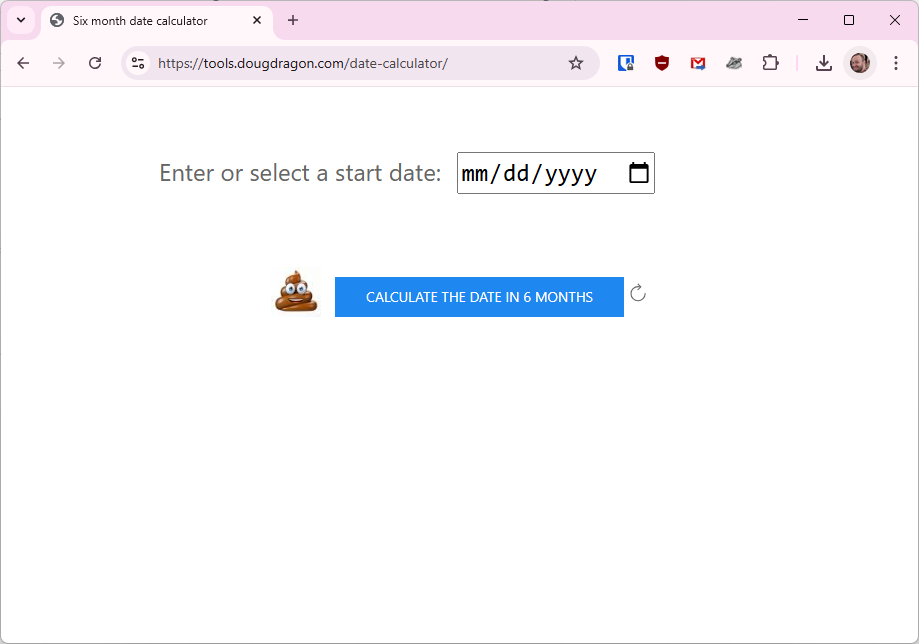
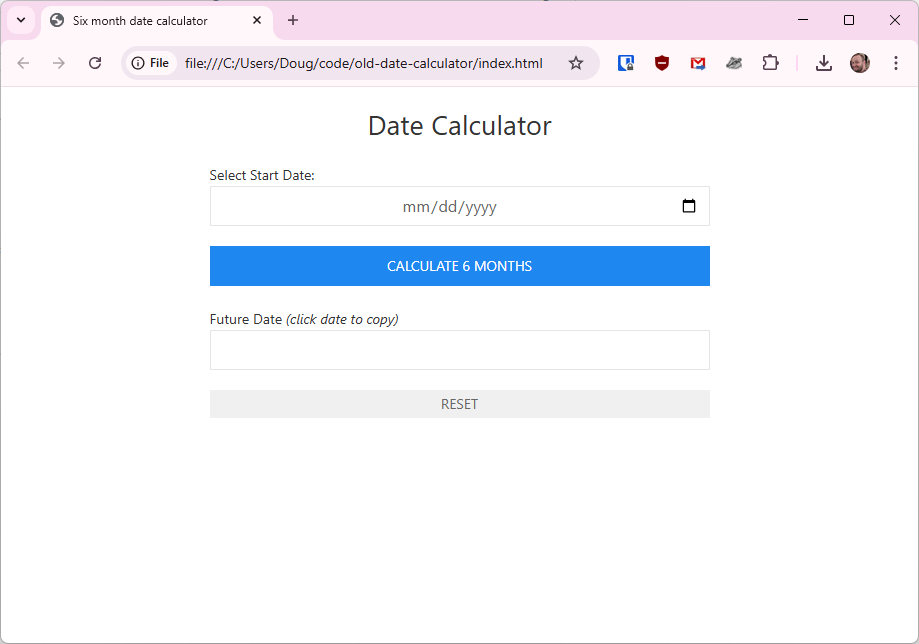
Update page, add responsive styling, updated preview image

diff --git a/index.html b/index.html
@@ -1,88 +1,93 @@
 <!DOCTYPE html>
-<html>
+<html lang='en'>
 <head>
+    <meta charset='UTF-8'>
+    <meta name='viewport' content='width=device-width, initial-scale=1.0'>
     <title>Six month date calculator</title>
-    <meta charset="UTF-8" />
-    <link rel="stylesheet" href="https://cdn.jsdelivr.net/npm/uikit@3.21.9/dist/css/uikit.min.css" />
-    <script src="https://cdn.jsdelivr.net/npm/uikit@3.21.9/dist/js/uikit.min.js"></script>
-    <script src="https://cdn.jsdelivr.net/npm/uikit@3.21.9/dist/js/uikit-icons.min.js"></script>
+    <link rel='stylesheet' href='https://cdn.jsdelivr.net/npm/uikit@3.16.5/dist/css/uikit.min.css' />
+    <script src='https://cdn.jsdelivr.net/npm/uikit@3.16.5/dist/js/uikit.min.js'></script>
+    <script src='https://cdn.jsdelivr.net/npm/uikit@3.16.5/dist/js/uikit-icons.min.js'></script>
+    <style>
+        body {
+            margin: 20px;
+        }
+        .container {
+            max-width: 500px;
+            margin: 0 auto;
+        }
+    </style>
 </head>
 <body>
-    <div class="uk-position-top uk-text-xlarge uk-text-center uk-margin-large-top">
-        <label
-            for="startDate"
-            class="uk-margin-small-right uk-text-large"
-        >
-            Enter or select a start date:
-        </label>
-        <input
-            type="date"
-            id="startDate"
-            class="uk-text-large"
-        >
-        <span
-            uk-icon="icon: arrow-left; ratio: 5"
-            style="visibility: hidden;"
-            id="big-fn-arrow"
-        >
-        </span><br />
-        <div class="uk-margin-large-top uk-margin-large-bottom">
-            <img
-                src="images/poop.jpg"
-                width="50"
-                class="uk-margin-small-right"
-                id="poop"
-                title="hidey ho!"
-            />
-            <button
-                class="uk-button uk-button-primary uk-button-primary uk-margin-small-top"
-                onclick="calculateEndDate()"
-            >
-                Calculate the date in 6 months
-            </button>
-            <a
-                href=""
-                uk-icon="icon: refresh"
-                onclick="reset()"
-                title="Reset"
-            ></a>
-            <p
-                id="endDate"
-                class="uk-text-large"
-                style="display: none"
-            ></p>
+    <div class='uk-container container'>
+        <h2 class='uk-text-center'>Date Calculator</h2>
+
+        <div class='uk-margin'>
+            <label class='uk-form-label' for='startDate'>Select Start Date:</label>
+            <div class='uk-form-controls'>
+                <input class='uk-input uk-text-center' type='date' id='startDate'>
+            </div>
         </div>
+
+        <button class='uk-button uk-button-primary uk-width-1-1' onclick='calculateFutureDate()'>Calculate 6 months</button>
+        <div class='uk-width-1-1 uk-text-center'>
+        </div>
+
+        <div class='uk-margin'>
+            <label class='uk-form-label'>Future Date <i>(click date to copy)</i></label>
+            <div class='uk-form-controls'>
+                <input class='uk-input uk-text-center' type='text' id='futureDate' value='' readonly title='Click to copy'>
+                 <button class='uk-button uk-button-small uk-width-1-1 uk-margin' onclick='reset()' id='reset'>Reset</button>
+            </div>
+        </div>
+        <img src='images/poop.jpg' width='50' class='uk-align-center' id='poop' title='hidey ho!' style='visibility: hidden;'>
     </div>
 
     <script>
-        const bigFnArrow = document.getElementById('big-fn-arrow');
-        const startDateInput = document.getElementById('startDate');
-        const endDateOutput = document.getElementById('endDate');
-
-        const calculateEndDate = () => {
-            if (startDateInput.value === '') {
-                endDateOutput.innerHTML = '<b>Please enter a valid start date</b>'
-                endDateOutput.style.display = ''
+        // Click event for the future date element to copy the output
+        const futureDateInput = document.getElementById('futureDate');
+        futureDateInput.addEventListener('click', () => {
+            let initialValue = futureDateInput.value;
+            if (initialValue.length > 0) {
+                futureDateInput.select();
+                document.execCommand('copy');
+                futureDateInput.value = 'Date copied to clipboard!';
                 setTimeout(() => {
-                    bigFnArrow.style.visibility = 'visible';
-                }, 500);
-            } else {
-                bigFnArrow.style.visibility = 'hidden';
-                console.log(`--- DEBUG -- Input date: ${startDateInput.value}`)
-                const startDate = new Date(startDateInput.value);
-                startDate.setMonth(startDate.getMonth() + 6);
-
-                const options = { month: 'long', day: 'numeric', year: 'numeric' };
-                const formattedEndDate = startDate.toLocaleDateString('en-US', options);
-
-                endDateOutput.innerHTML = `Six months from the start date: <b>${formattedEndDate}</b>`;
-                endDateOutput.style.display = ''
+                    futureDateInput.value = initialValue;
+                }, 1500);
             }
-        }
+        });
+
+        const calculateFutureDate = () => {
+            const startDateInput = document.getElementById('startDate');
+            const futureDateInput = document.getElementById('futureDate');
+            const startDateValue = startDateInput.value;
+
+            if (!startDateValue) {
+                UIkit.modal.alert('Please select a start date.');
+                return;
+            }
+
+            const startDate = new Date(startDateValue);
+            startDate.setMonth(startDate.getMonth() + 6);
+
+            const year = startDate.getFullYear();
+            const month = String(startDate.getMonth() + 1).padStart(2, '0'); // Month is 0-indexed
+            const day = String(startDate.getDate()).padStart(2, '0');
+            const futureDateFormatted = `${month}/${day}/${year}`;
+
+            futureDateInput.value = futureDateFormatted;
+
+            setTimeout(() => {
+                document.getElementById('poop').style.visibility = 'visible';
+            }, 500); // SURPRISE
+        };
 
         const reset = () => {
-            endDateOutput.style.display = 'none';
-        }
+            // Reset start and future dates and hide the poop
+            document.getElementById('futureDate').value = '';
+            document.getElementById('startDate').value = '';
+            document.getElementById('poop').style.visibility = 'hidden';
+        };
     </script>
 </body>
 </html>
